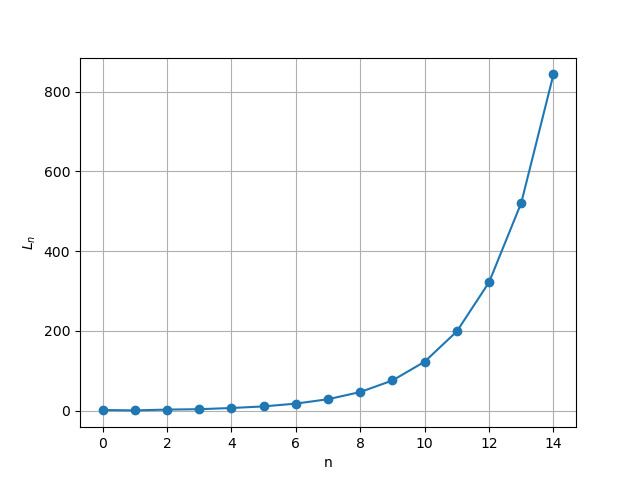
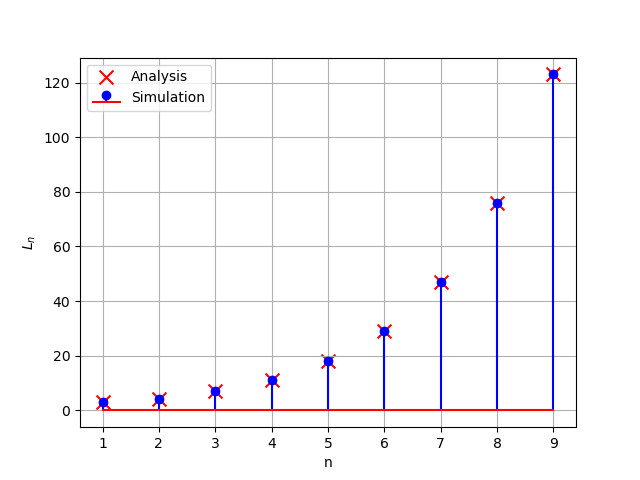
Add files via upload

diff --git a/Gate/CS_15/codes/Graph.py b/Gate/CS_15/codes/Graph.py
@@ -1,22 +1,20 @@
 import numpy as np
 import matplotlib.pyplot as plt
 
-# Function to calculate Ln
-def calculate_L(n):
-    phi = (1 + np.sqrt(5)) / 2
-    psi = (1 - np.sqrt(5)) / 2
-    return phi**n + psi**n
+# import the data from the text file
+data = np.loadtxt("output.txt", skiprows=1)
 
-# Generating values for n
-n_values = np.arange(0, 15)
-
-# Calculating Ln for each n
-L_values = calculate_L(n_values)
-
+# clear all the previous figures
+plt.close("all")
+# plot the graph
+y_n = data[:11]
+plt.stem(range(1, len(data) + 1), y_n, markerfmt='bo', linefmt='b-', basefmt='r-',label=r'Simulation') 
+plt.scatter(range(1, len(data) + 1), data, color='red',marker='x',s=100,label=r'Analysis')
+plt.xticks(range(1, len(data) + 1))
 # Plotting
-plt.plot(n_values, L_values, marker='o')
 plt.xlabel('n')
 plt.ylabel('$L_n$')
+# Add legend
+plt.legend()
 plt.grid(True)
 plt.savefig("fig1.png")
-

diff --git a/Gate/CS_15/codes/code.c b/Gate/CS_15/codes/code.c
@@ -1,0 +1,30 @@
+#include <stdio.h>
+#include <math.h>
+
+double calculate_L(int n) {
+    double sqrt5 = sqrt(5);
+    double phi = (1 + sqrt5) / 2;
+    double psi = (1 - sqrt5) / 2;
+    double Ln = pow(phi, n) + pow(psi, n);
+    return Ln;
+}
+
+int main() {
+    FILE *fp;
+    fp = fopen("output.txt", "w");
+    if (fp == NULL) {
+        printf("Error opening file.\n");
+        return 1;
+    }
+
+    // Calculate and write values to file
+    for (int n = 1; n <= 10; n++) {
+        double result = calculate_L(n);
+        fprintf(fp, "%.10f\n", result);  // Write with high precision
+    }
+
+    fclose(fp);
+    printf("Output values have been written to output.txt\n");
+    return 0;
+}
+
